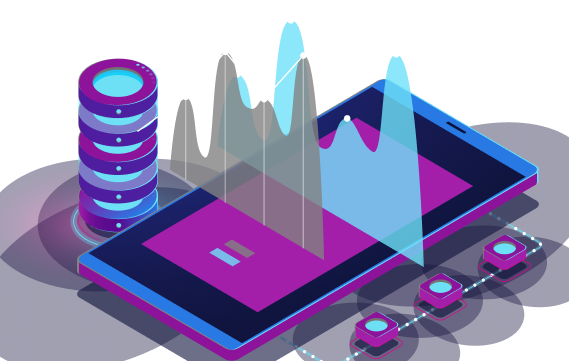
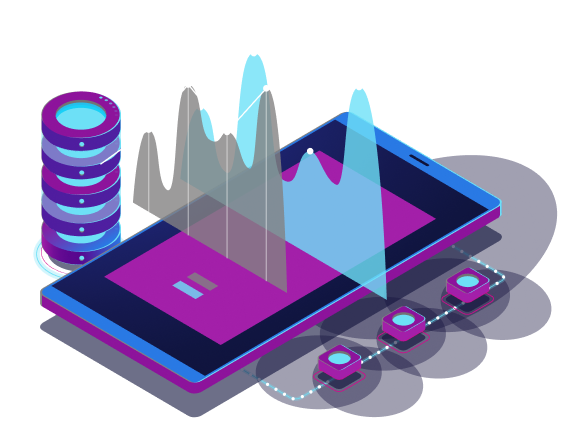
update main illustration

diff --git a/src/app/pages/home/home.component.scss b/src/app/pages/home/home.component.scss
@@ -35,9 +35,5 @@ section {
 
   #content2 {
     justify-self: center;
-
-    img {
-      padding-top: 3rem;
-    }
   }
 }
